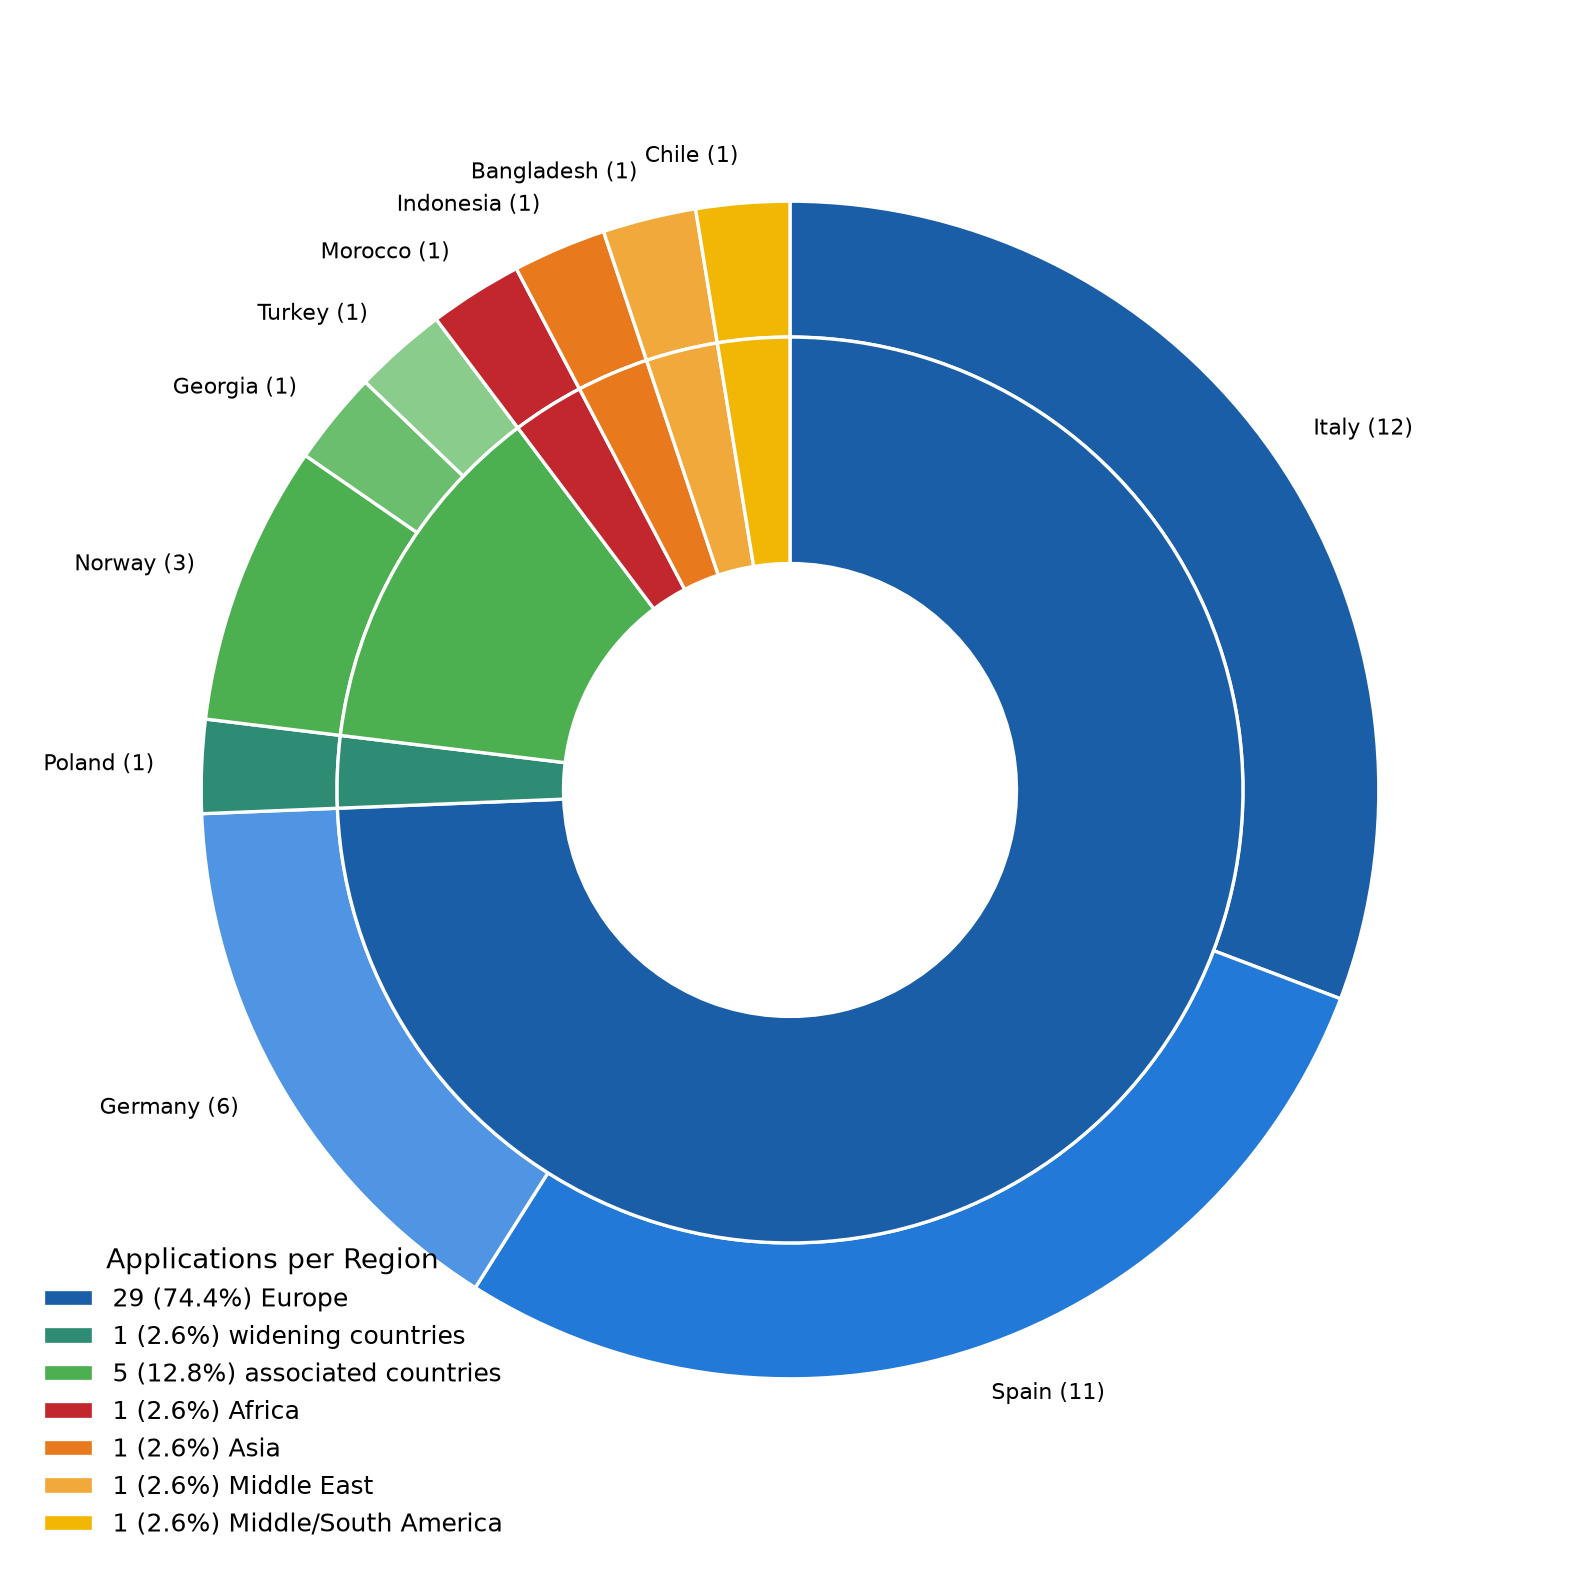
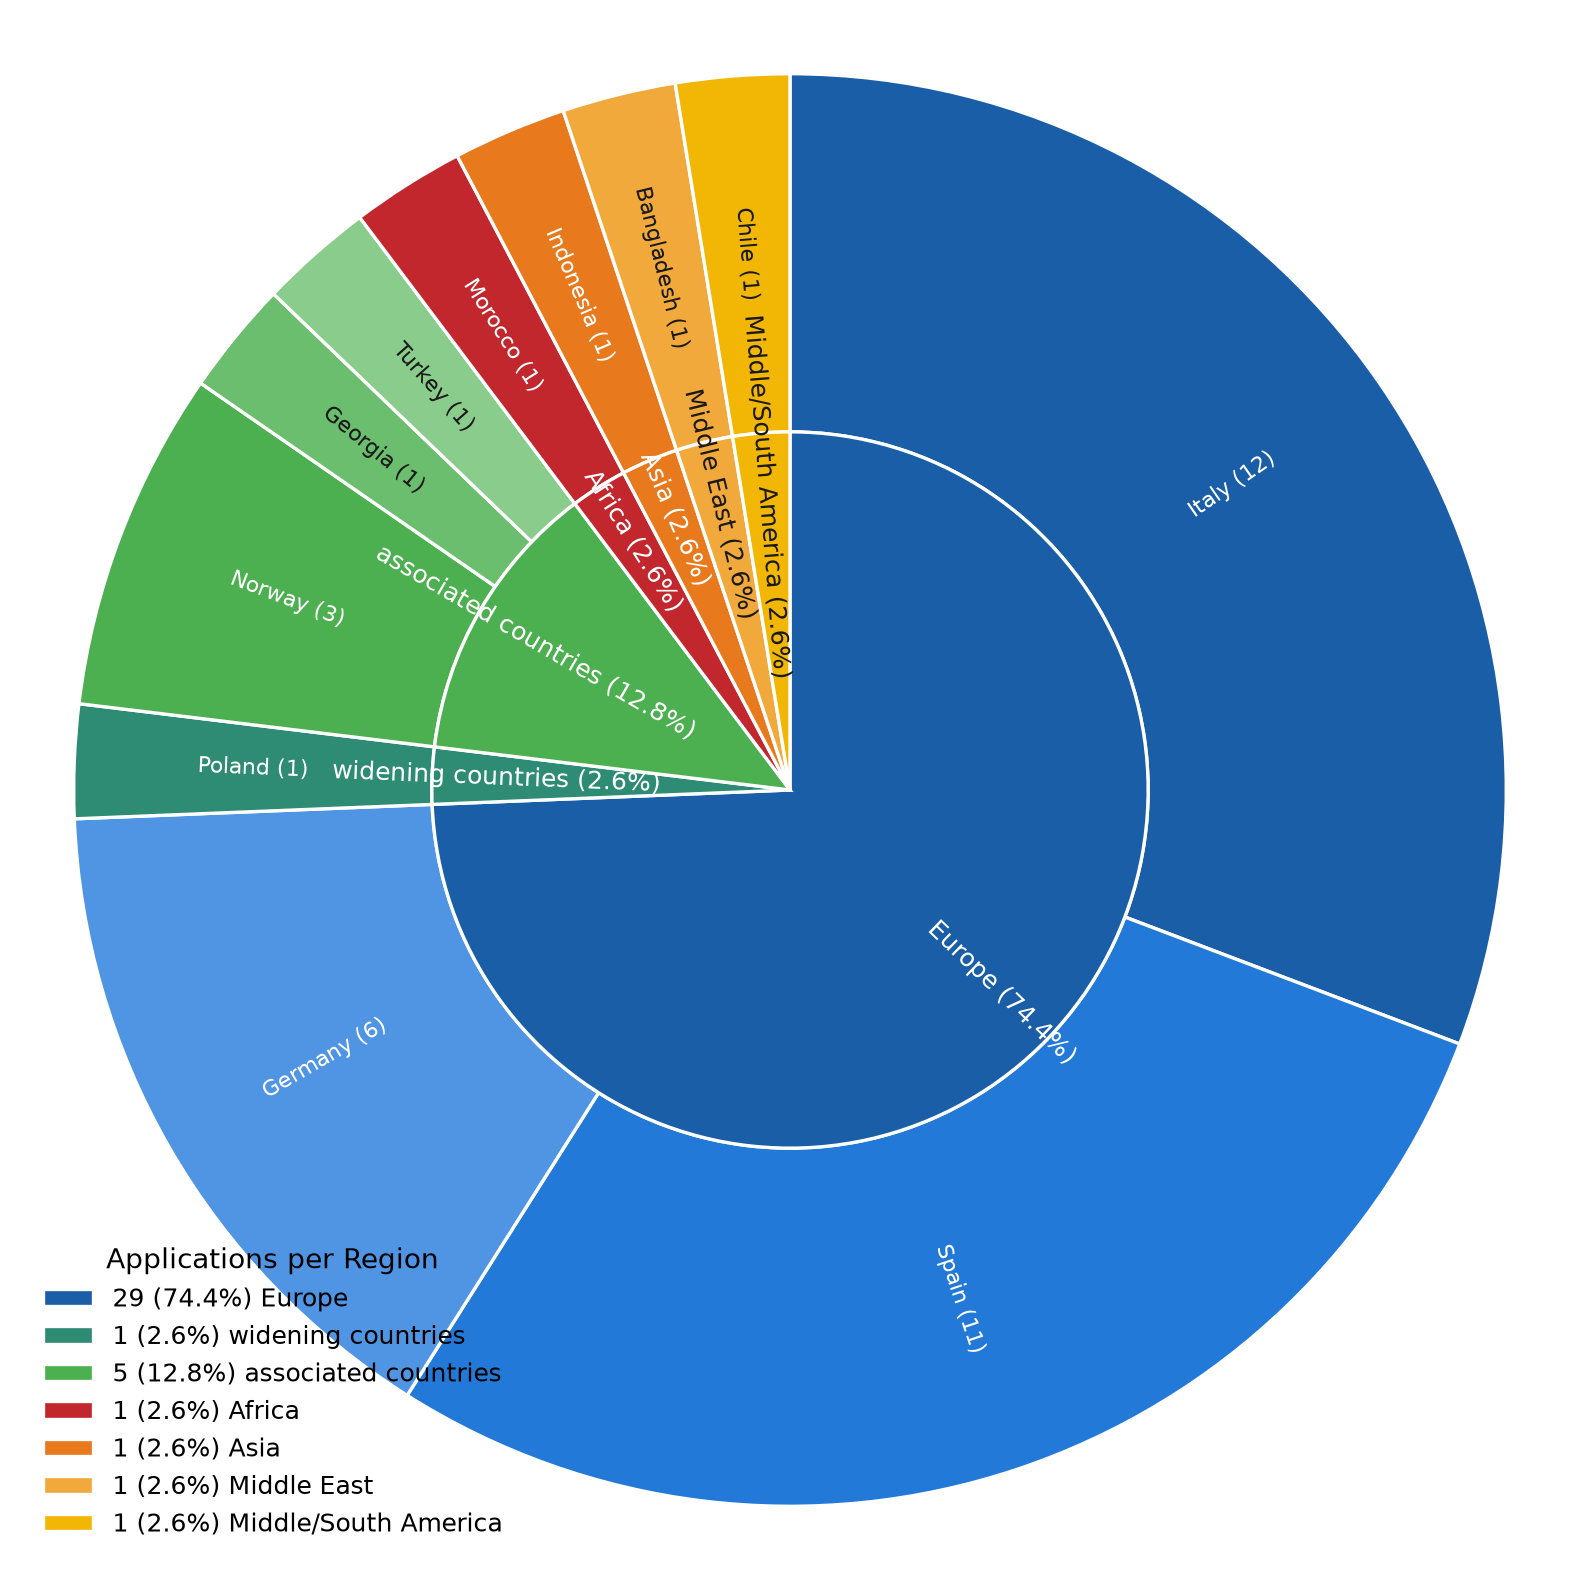
Remove donut hole, size rings equally, label wedges in-place
The inner ring is now a solid disk (no center hole) whose radius
roughly equals the outer ring's radial width. Both rings are labeled
directly inside their wedges (rotated to read outward from the
center) instead of via leader-line/legend-only text: regions as
"Region (%)" and countries as "Country (count)".

Claude-Session: https://claude.ai/code/session_01NCsL25qjT6ciqyFrGjZY9w

diff --git a/CountryOfAffiliation_doublePieChart/double_pie_chart.py b/CountryOfAffiliation_doublePieChart/double_pie_chart.py
@@ -12,14 +12,18 @@ Steps:
      associated countries, Africa, Asia, Middle East, Middle/South America,
      Oceania, U.S. + Canada. Countries within a region are sorted by
      participant count (descending).
-  3. Plot a nested donut chart: inner ring = regions, outer ring = countries.
-     Countries are colored as shades of their region's base color.
+  3. Plot a nested pie chart with no donut hole: a solid inner disk for
+     regions and a surrounding outer ring for countries (its radial width
+     equal to the inner disk's radius). Countries are colored as shades of
+     their region's base color. Labels are written directly inside each
+     wedge, rotated to read outward from the center.
 """
 import argparse
 import colorsys
 from pathlib import Path
 
 import matplotlib.pyplot as plt
+import numpy as np
 import pandas as pd
 from matplotlib.colors import to_rgb
 
@@ -154,6 +158,45 @@ def assign_country_colors(table: pd.DataFrame, region_colors: dict):
     return colors
 
 
+def readable_text_color(background_color):
+    """White text on dark wedges, near-black text on light wedges."""
+    r, g, b = to_rgb(background_color)
+    luminance = 0.2126 * r + 0.7152 * g + 0.0722 * b
+    return "white" if luminance < 0.6 else "#1a1a1a"
+
+
+def _normalize_angle(angle_deg: float) -> float:
+    """Map an angle to (-180, 180]."""
+    angle_deg = angle_deg % 360
+    return angle_deg - 360 if angle_deg > 180 else angle_deg
+
+
+def label_wedges(ax, wedges, labels, label_radius, fontsize):
+    """Write each label inside its wedge, rotated to point outward from center
+    (flipped by 180 degrees where needed so text is never upside down)."""
+    for wedge, label in zip(wedges, labels):
+        angle = (wedge.theta1 + wedge.theta2) / 2.0
+        theta = np.deg2rad(angle)
+        x = label_radius * np.cos(theta)
+        y = label_radius * np.sin(theta)
+
+        rotation = _normalize_angle(angle)
+        if rotation > 90 or rotation < -90:
+            rotation = _normalize_angle(rotation + 180)
+
+        ax.text(
+            x,
+            y,
+            label,
+            rotation=rotation,
+            rotation_mode="anchor",
+            ha="center",
+            va="center",
+            fontsize=fontsize,
+            color=readable_text_color(wedge.get_facecolor()),
+        )
+
+
 def print_step1(country_counts: pd.Series):
     print("=" * 60)
     print("Schritt 1: Teilnehmer je Land (alphabetisch)")
@@ -178,6 +221,11 @@ def print_step2(table: pd.DataFrame, region_totals: pd.Series):
     print(f"\n{'Gesamt':30s} {total:3d}\n")
 
 
+INNER_RADIUS = 1.0  # solid inner disk, no donut hole
+OUTER_RING_WIDTH = 1.0  # radial thickness of the outer ring == inner disk's radius
+OUTER_RADIUS = INNER_RADIUS + OUTER_RING_WIDTH
+
+
 def plot_double_pie(table: pd.DataFrame, region_totals: pd.Series, region_colors: dict):
     fig, ax = plt.subplots(figsize=(10, 10), subplot_kw=dict(aspect="equal"))
 
@@ -185,30 +233,29 @@ def plot_double_pie(table: pd.DataFrame, region_totals: pd.Series, region_colors
     ordered_colors = [region_colors[r] for r in region_totals.index]
     country_colors = assign_country_colors(table, region_colors)
 
-    outer_labels = [f"{c} ({n})" for c, n in zip(table["Country"], table["Count"])]
-
-    ax.pie(
+    outer_wedges, _ = ax.pie(
         table["Count"],
-        radius=1.3,
+        radius=OUTER_RADIUS,
         colors=country_colors,
-        labels=outer_labels,
-        labeldistance=1.08,
-        wedgeprops=dict(width=0.3, edgecolor="white", linewidth=1.2),
-        textprops=dict(fontsize=8),
+        wedgeprops=dict(width=OUTER_RING_WIDTH, edgecolor="white", linewidth=1.2),
         startangle=90,
         counterclock=False,
     )
     inner_wedges, _ = ax.pie(
         region_totals,
-        radius=1.0,
+        radius=INNER_RADIUS,
         colors=ordered_colors,
-        wedgeprops=dict(width=0.5, edgecolor="white", linewidth=1.2),
+        wedgeprops=dict(edgecolor="white", linewidth=1.2),
         startangle=90,
         counterclock=False,
     )
 
-    # Small region slices would overlap if labeled in-wedge, so regions are
-    # explained via a legend instead of inline text.
+    outer_labels = [f"{c} ({n})" for c, n in zip(table["Country"], table["Count"])]
+    inner_labels = [f"{r} ({n / total * 100:.1f}%)" for r, n in region_totals.items()]
+
+    label_wedges(ax, outer_wedges, outer_labels, label_radius=(INNER_RADIUS + OUTER_RADIUS) / 2, fontsize=8)
+    label_wedges(ax, inner_wedges, inner_labels, label_radius=INNER_RADIUS * 0.82, fontsize=9)
+
     region_legend_labels = [
         f"{n} ({n / total * 100:.1f}%) {r}" for r, n in region_totals.items()
     ]
@@ -223,8 +270,9 @@ def plot_double_pie(table: pd.DataFrame, region_totals: pd.Series, region_colors
         frameon=False,
     )
 
-    ax.set_xlim(-1.7, 1.7)
-    ax.set_ylim(-1.7, 1.7)
+    margin = OUTER_RADIUS + 0.15
+    ax.set_xlim(-margin, margin)
+    ax.set_ylim(-margin, margin)
     fig.savefig(OUTPUT_FILE, dpi=200, bbox_inches="tight")
     print(f"Chart gespeichert unter: {OUTPUT_FILE}")
 

diff --git a/CountryOfAffiliation_doublePieChart/README.md b/CountryOfAffiliation_doublePieChart/README.md
@@ -1,10 +1,12 @@
 # CountryOfAffiliation_doublePieChart
 
-Nested (double) pie/donut chart showing participants' country of affiliation,
+Nested double pie chart showing participants' country of affiliation,
 grouped by region.
 
-- Inner ring: region/category totals
-- Outer ring: countries, colored as shades of their region's color
+- Inner disk: region/category totals, labeled in-wedge as `Region (%)`
+- Outer ring: countries, colored as shades of their region's color, labeled
+  in-wedge as `Country (count)`
+- No donut hole; the outer ring's radial width equals the inner disk's radius
 
 ## Data
 